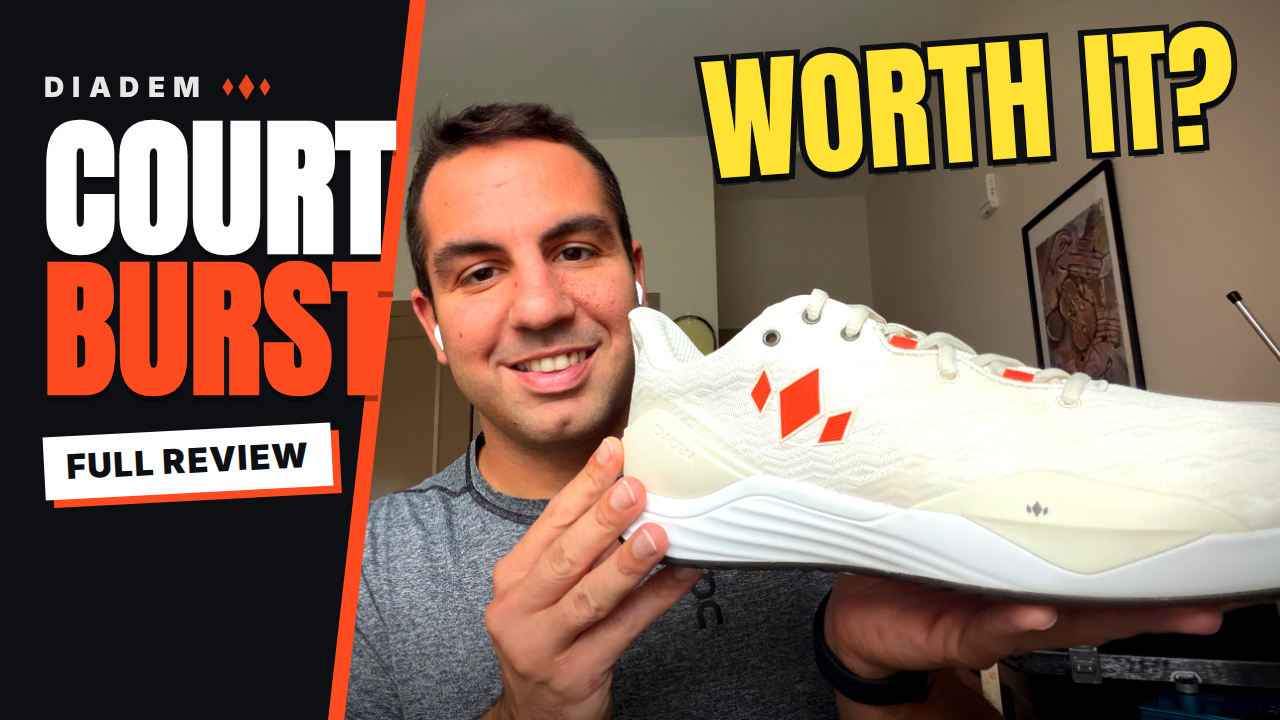
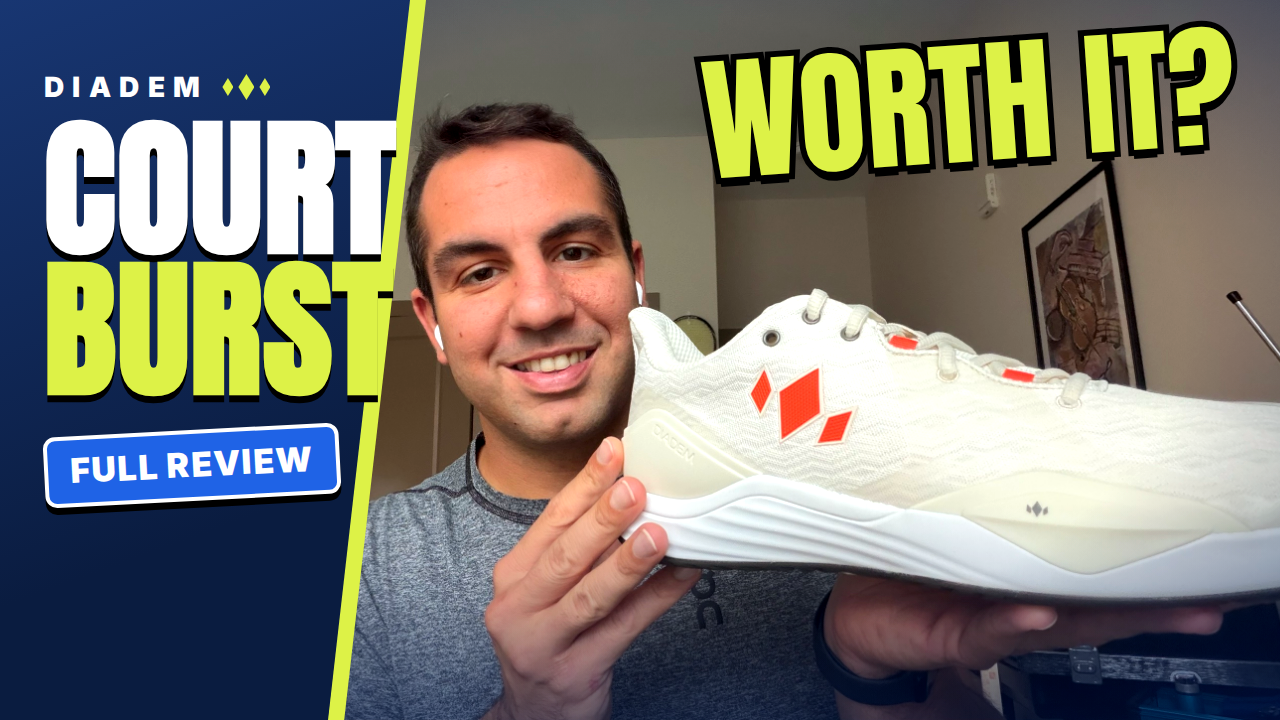
Recolor Court Burst thumbnail to the channel's cover palette
Navy panel, optic-yellow accents, blue pill tag and hard black shadows,
matching the earlier covers (Wilson US Open, doubles highlights, etc.).

Claude-Session: https://claude.ai/code/session_01HKKTU4uecf55Fz3EdPsjxf

diff --git a/thumbnail/thumbnail.html b/thumbnail/thumbnail.html
@@ -7,14 +7,17 @@
   @font-face{font-family:"Anton";src:url("fonts/Anton.woff2") format("woff2");font-weight:400;}
   @font-face{font-family:"Inter";src:url("fonts/Inter-Black.woff2") format("woff2");font-weight:900;}
   :root{
-    --ink:#0E0F12;
-    --orange:#FF4B1F;
-    --yellow:#FFE234;
+    /* Channel palette, shared with the earlier covers */
+    --navy:#0A1C40;
+    --navy-2:#183672;
+    --optic:#DDF247;
+    --blue:#1F63E6;
     --white:#FFFFFF;
+    --ink:#000000;
   }
   *{box-sizing:border-box;margin:0;padding:0;}
-  html,body{width:1280px;height:720px;overflow:hidden;background:var(--ink);}
-  .thumb{position:relative;width:1280px;height:720px;overflow:hidden;background:var(--ink);}
+  html,body{width:1280px;height:720px;overflow:hidden;background:var(--navy);}
+  .thumb{position:relative;width:1280px;height:720px;overflow:hidden;background:var(--navy);}
 
   /* Photo: full frame, nudged right so the panel clears the face */
   .photo{
@@ -22,55 +25,55 @@
     background:url("photo-smile.jpg") no-repeat;
     background-size:1279px 720px;
     background-position:24px 0;
-    filter:contrast(1.12) saturate(1.2) brightness(1.04);
+    filter:contrast(1.1) saturate(1.1) brightness(1.03);
   }
-  .photo::after{ /* vignette */
+  .photo::after{ /* navy vignette, cools the warm room light */
     content:"";position:absolute;inset:0;
     background:
-      radial-gradient(ellipse 75% 85% at 55% 45%, transparent 55%, rgba(0,0,0,.55) 100%),
-      linear-gradient(to bottom, transparent 70%, rgba(0,0,0,.35));
+      radial-gradient(ellipse 75% 85% at 55% 45%, transparent 50%, rgba(10,28,64,.7) 100%),
+      linear-gradient(to bottom, rgba(10,28,64,.15), transparent 30%, transparent 70%, rgba(10,28,64,.45));
   }
 
   /* Dark slanted panel on the left */
   .panel{
     position:absolute;top:0;left:0;height:720px;width:410px;
-    background:var(--ink);
+    background:linear-gradient(160deg, var(--navy-2) 0%, var(--navy) 70%);
     clip-path:polygon(0 0, 100% 0, 80% 100%, 0 100%);
   }
   .stripe{
     position:absolute;top:0;left:0;height:720px;width:426px;
-    background:var(--orange);
+    background:var(--optic);
     clip-path:polygon(95.5% 0, 100% 0, 80.8% 100%, 76.9% 100%);
   }
 
   .copy{position:absolute;left:44px;top:70px;width:340px;}
   .brand{
     font-family:"Inter",sans-serif;font-weight:900;font-size:28px;letter-spacing:.3em;
-    color:var(--white);opacity:.9;display:flex;align-items:center;gap:14px;
+    color:var(--white);display:flex;align-items:center;gap:14px;
   }
   .gems{display:flex;gap:5px;align-items:center;}
-  .gem{width:16px;height:26px;background:var(--orange);clip-path:polygon(50% 0,100% 50%,50% 100%,0 50%);}
+  .gem{width:16px;height:26px;background:var(--optic);clip-path:polygon(50% 0,100% 50%,50% 100%,0 50%);}
   .gem.sm{width:11px;height:18px;}
   .title{
     font-family:"Anton",sans-serif;color:var(--white);text-transform:uppercase;
     font-size:150px;line-height:.94;letter-spacing:.01em;margin-top:14px;
-    text-shadow:0 6px 0 rgba(0,0,0,.35);
+    text-shadow:0 7px 0 var(--ink);
   }
-  .title .burst{color:var(--orange);}
+  .title .burst{color:var(--optic);}
   .tag{
     display:inline-block;margin-top:30px;padding:10px 22px 12px;
-    background:var(--white);color:var(--ink);
+    background:var(--blue);color:var(--white);border:4px solid var(--white);border-radius:12px;
     font-family:"Inter",sans-serif;font-weight:900;font-size:34px;letter-spacing:.04em;
-    transform:rotate(-3deg);box-shadow:8px 8px 0 var(--orange);
+    transform:rotate(-3deg);box-shadow:0 7px 0 var(--ink);
   }
 
   /* Hook text in the empty ceiling space above the shoe */
   .hook{
     position:absolute;right:44px;top:36px;
-    font-family:"Anton",sans-serif;font-size:136px;line-height:1;color:var(--yellow);
+    font-family:"Anton",sans-serif;font-size:136px;line-height:1;color:var(--optic);
     text-transform:uppercase;transform:rotate(-4deg);
     -webkit-text-stroke:12px var(--ink);paint-order:stroke fill;
-    text-shadow:0 8px 0 rgba(0,0,0,.45);
+    text-shadow:0 9px 0 var(--ink);
   }
 </style>
 </head>
